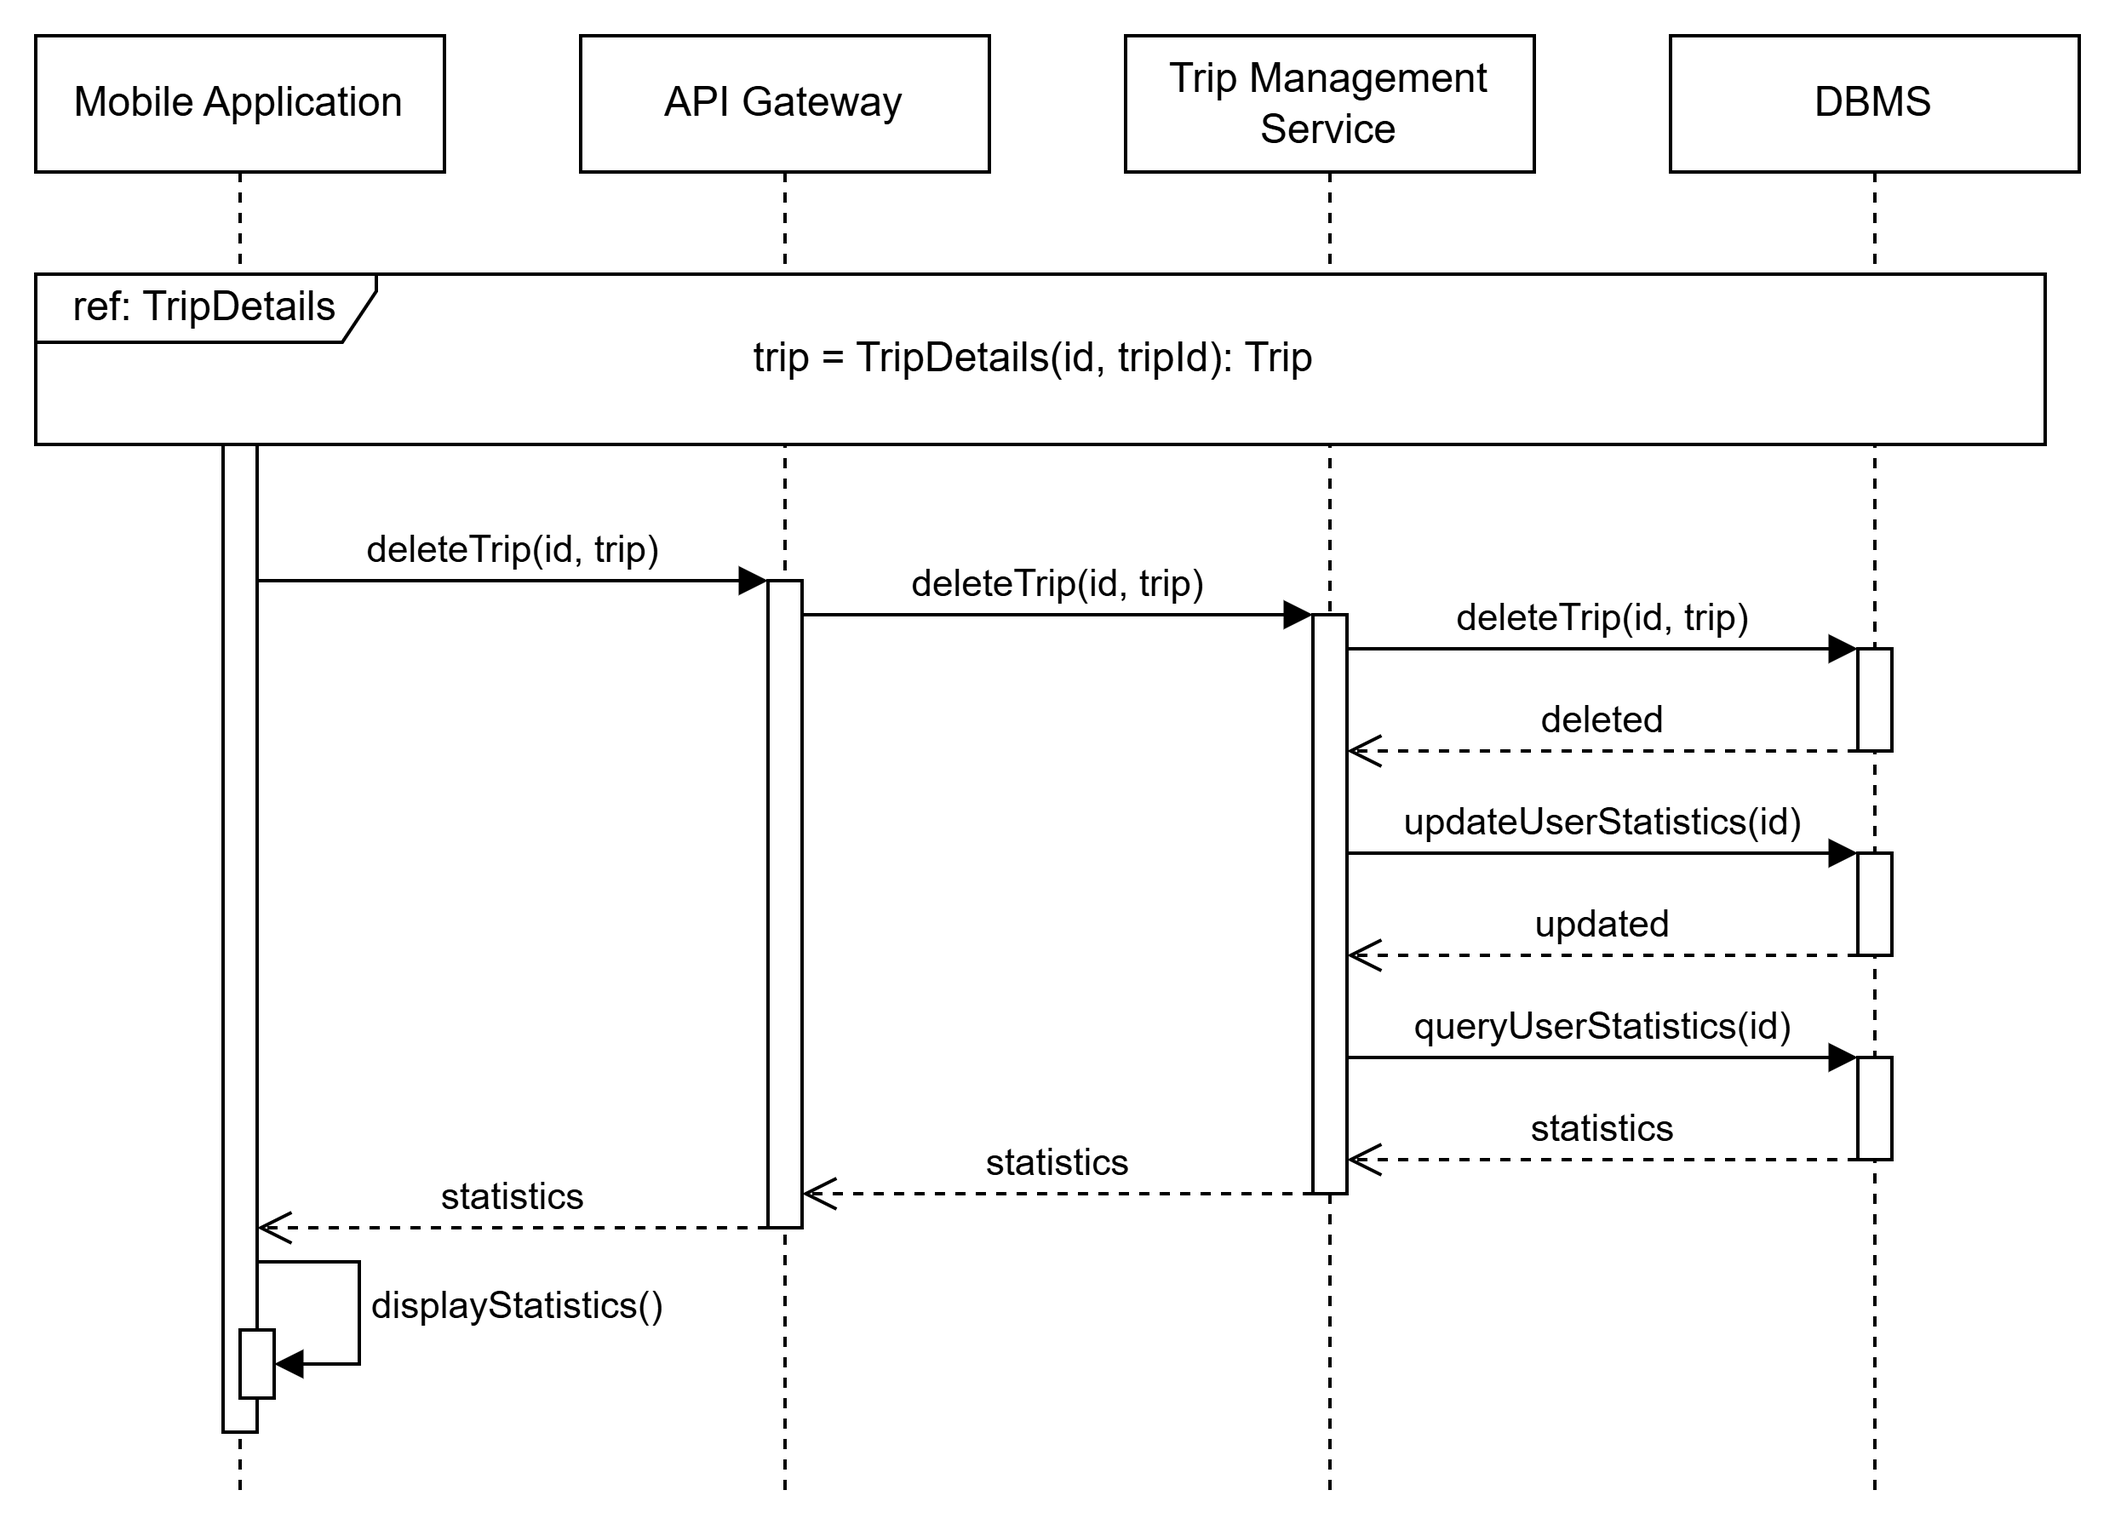
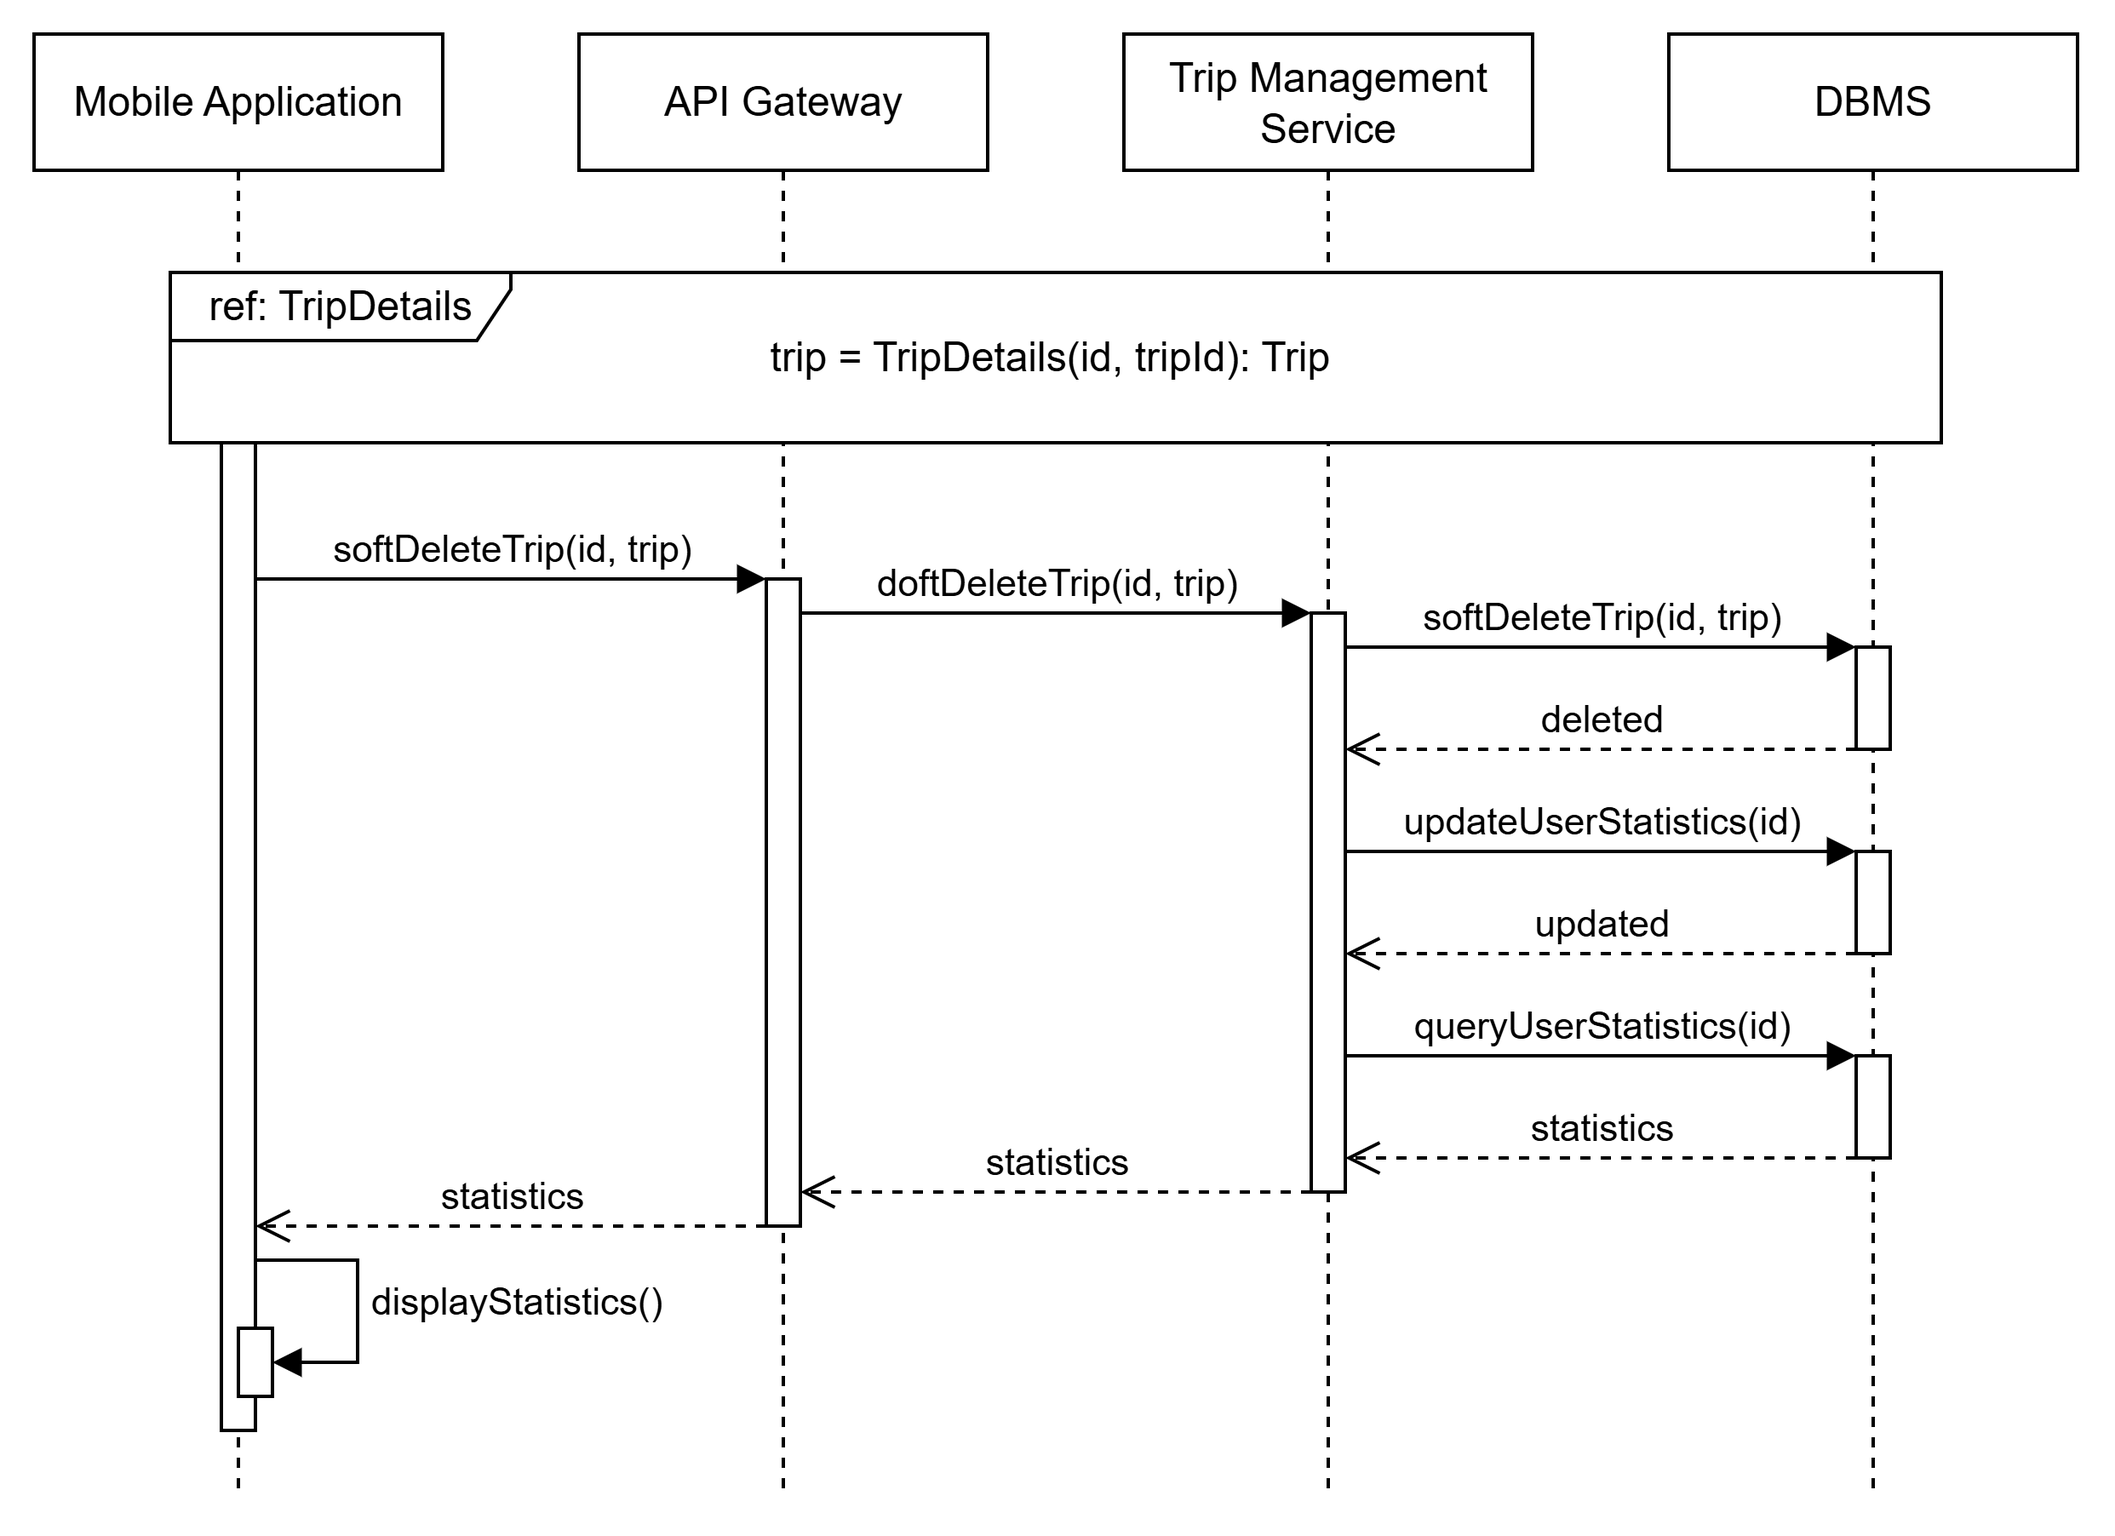
FixAdd(Section 2.4) Fix Sequence Diagram, Add Descriptions.
Fixed sequence diagrams to better model the system. Added description to each of them. 

TODO: fix browse bike paths sequence diagram, complete its description. fix automatic report generation sequence diagram

diff --git a/DD/source/sections/2_architectural_design.tex b/DD/source/sections/2_architectural_design.tex
@@ -12,7 +12,7 @@ The 3-tier client-server architecture is the fundamental backbone of the BBP sys
     \label{fig:high_level_system_view}
 \end{figure}
 
-\noindent
+\vspace{0.5cm}\noindent
 The adoption of the 3-tier client-server architecture offers several key advantages:
 \begin{itemize}
     \item Modular separation of concerns: by decoupling the presentation layer from the back-end logic, the system reduces component coupling. This facilitates parallel development streams and simplifies future maintenance.
@@ -142,10 +142,9 @@ The application server handles all the incoming requests from users interacting 
 The database runs on a clustered architecture to ensure high availability and data consistency. This configuration guarantees that all nodes maintain identical dataset and that the application server is updated with the latest information, preventing errors caused by data mismatches between nodes.
 
 \subsection{Runtime View}
-The following diagrams show the interaction between the various component that make up the BBP system. Note that the message flow modelled by these sequence diagrams do not include all the possible exceptions the system can run into for a matter of simplicity. Furthermore, as already mentioned before, every interaction between the client and the server is mediated by the API Gateway component, which also has caching mechanisms and acts as a session handler for registered users. These functionalities are not shown in the diagrams to make them more readable. 
-\newline
+The following diagrams show the interaction between the various component that make up the BBP system. Note that the message flow modelled by these sequence diagrams do not include all the possible exceptions the system can run into for a matter of simplicity. Furthermore, as already mentioned before, every interaction between the client and the server is mediated by the API Gateway component, which also has caching mechanisms and acts as a session handler for registered users. These functionalities are not shown in the diagrams to make them more readable.
 
-\noindent
+\vspace{0.5cm}\noindent
 \textbf{UC1: User Registration}
 \begin{figure}[H]
     \centering
@@ -154,6 +153,9 @@ The following diagrams show the interaction between the various component that m
     \label{fig:registration_sd}
 \end{figure}
 
+This sequence diagram shows the interactions between system components during user registration. Note that the local email and password validation is only syntactical, checking for errors in the email formatting and for well formed passwords. The password is hashed using salting and peppering, as already mentioned in the RASD, before sending the registration request to the back-end for better security. The \code{id} is generated by the DBMS, cached in the API gateway and returned to the user for session handling: all subsequent client requests also include the id, so the API gateway can authenticate the user.
+
+\newpage
 \noindent
 \textbf{UC2: User Login}
 \begin{figure}[H]
@@ -163,6 +165,9 @@ The following diagrams show the interaction between the various component that m
     \label{fig:sd_login}
 \end{figure}
 
+This sequence diagram shows the interactions between system components during user login. If the email and hashed password correspond to an entry of the database, the corresponding id is cached in the API gateway and returned to the client, so all subsequent requests can be authenticated.
+
+\vspace{0.5cm}
 \noindent
 \textbf{UC3: Update Profile Data}
 \begin{figure}[H]
@@ -172,7 +177,9 @@ The following diagrams show the interaction between the various component that m
     \label{fig:update_sd}
 \end{figure}
 
-\noindent
+This sequence diagram shows the interactions between system components during profile data updates. The client sends an update request to the server, which then responds with a success or failure message.
+
+\newpage \noindent
 \textbf{UC4: Delete Account}
 \begin{figure}[H]
     \centering
@@ -181,6 +188,9 @@ The following diagrams show the interaction between the various component that m
     \label{fig:delete_sd}
 \end{figure}
 
+This sequence diagram shows the interactions between system components during account deletion. By GDPR regulations, all sensitive information regarding the user is deleted, while all reports he compiled are persisted in the database.
+
+\newpage
 \noindent
 \textbf{UC5: Browse Bike Paths}
 \begin{figure}[H]
@@ -190,6 +200,11 @@ The following diagrams show the interaction between the various component that m
     \label{fig:browse_sd}
 \end{figure}
 
+This sequence diagram shows the interactions between system components during bike paths browsing. Once the user navigates to the dedicated section in the mobile application, a location request to the device is dispatched. When the user location is returned by the device, the application gets map and weather information from external services, in order to display them. If the user inserts departure and destination points, with attached filters, a request to the server is dispatched, which returns the list of the available bike paths, ranked by score. Otherwise, if the user explores the map, a request by area is sent to the server. In both cases, the map and weather information are updated and the list of bike paths are displayed to the user.
+
+The user can optionally visualize the details of a given path by clicking it,
+
+\newpage
 \noindent
 \textbf{UC6: Plan Trips}
 \begin{figure}[H]
@@ -198,8 +213,9 @@ The following diagrams show the interaction between the various component that m
     \caption{Plan Trips Sequence Diagram.} 
     \label{fig:plan_sd}
 \end{figure}
+This sequence diagram shows the interactions between system components during trip planning. After browsing and selecting a bike path, the user can decide to save the trip: the client sends a request to the trip management service, which saves the trip in the database via the DBMS. 
 
-\noindent
+\vspace{0.5cm}\noindent
 \textbf{UC7: Change Automatic Tracking Settings}
 \begin{figure}[H]
     \centering
@@ -208,6 +224,9 @@ The following diagrams show the interaction between the various component that m
     \label{fig:change_prefs_sd}
 \end{figure}
 
+This sequence diagram shows the interactions between system components during preferences changes. The client simply dispatches a request to switch preferences to the user management component, which saves the preferences to the database, via the DBMS.
+
+\newpage
 \noindent
 \textbf{UC8: View History and Statistics of Completed Trips}
 \begin{figure}[H]
@@ -217,6 +236,9 @@ The following diagrams show the interaction between the various component that m
     \label{fig:details_sd}
 \end{figure}
 
+This sequence diagram shows the interactions between system components when the user views the history and statistics of completed trips. The client gets from the server the global user statistics, all planned and completed trips in parallel, showing them to the user. Once the user clicks on a completed trip, all information regarding the trip is fetched and displayed.
+
+\newpage
 \noindent
 \textbf{UC9: Delete Trips from History}
 \begin{figure}[H]
@@ -226,6 +248,9 @@ The following diagrams show the interaction between the various component that m
     \label{fig:delete_trip_sd}
 \end{figure}
 
+This sequence diagram shows the interaction between system components during trip deletion. The user can decide to delete a trip after visualizing its details. The client sends a request to the trip management service, which interacts with the DBMS by requesting a soft deletion of the information, the update of user global statistics and the query of the new ones, so the user can visualize them.
+
+\newpage
 \noindent
 \textbf{UC10: Manual Report}
 \begin{figure}[H]
@@ -235,6 +260,9 @@ The following diagrams show the interaction between the various component that m
     \label{fig:manual_sd}
 \end{figure}
 
+This sequence diagram shows the interaction between system components during manual reporting. After completing his trip, the user can compile the report regarding the bike path he followed. A creation request is dispatched from the client to the report management system, which creates a new draft and inserts it into the database via the DBMS. For each street of the path, the user can add a new obstacle, which is done once again via a request to the report management service. Once the validation process is completed, the user may optionally publish the data: the client sends a request to the report management component which updates the state of the report, and publishes a new event on the bus, which triggers a synchronization process in the application layer to make the data up-to-date. 
+
+\newpage
 \noindent
 \textbf{UC11: Automatic Report}
 \begin{figure}[H]
@@ -244,7 +272,9 @@ The following diagrams show the interaction between the various component that m
     \label{fig:automatic_sd}
 \end{figure}
 
+This sequence diagram shows the interactions between system components during automatic report generation. Once the user starts his trip, the mobile application receives the sensor data, including GPS location, from the device. The client batches all the data and sends it to the tracking ingestion endpoint, which simply publishes to the bus a \code{SensE} event containing the batch. The tracking processing worker reacts to this event by cleaning the data and publishing in turn a new \code{PSensE} event to the bus. This triggers a sequence of tasks in the automatic report generator worker, which creates a new report draft, inserts it into the database, via the DBMS component, and updates it when a new \code{PSensE} event is captured from the bus. When the user reaches the destination point, or stops the recording of the trip, a termination event is published into the bus by either the trip management component or the tracking ingestion endpoint respectively. This event is consumed by the automatic report generator, which queries the draft from the DBMS and sends it to the client, so the user can validate the report. Every validation step executed by the user triggers an update to the database, until the verification is completed. At this point the user may optionally publish the data: the client sends a request to the report management component which updates the state of the report, and publishes a new event on the bus, which triggers a synchronization process in the application layer to make the data up-to-date. 
 
+\vspace{0.5cm}
 \noindent
 \textbf{UC12: Receive Trip Alerts}
 \begin{figure}[H]
@@ -253,6 +283,9 @@ The following diagrams show the interaction between the various component that m
     \caption{Receive Trip Alerts Sequence Diagram.}
     \label{fig:alerts_sd}
 \end{figure}
+
+This sequence diagram shows the interactions between system components during trip alerts. Once the user has planned a trip, the system activates a polling mechanism that every 12 hours requests weather information to the external weather provider, via the adapter. The alert component, upon receiving the weather data, computes a severity score.  Also, every time the report management service publishes a \code{ReportPublishedE} event on the bus, the alert service reacts by recomputing the severity score. When the score exceeds a given threshold, the alert service triggers a notification to the user's device. 
+
 
 \subsection{Component Interfaces}
 
@@ -277,5 +310,5 @@ As already mentioned in previous sections, the asynchronous nature of some featu
 to the adoption of an hybrid architecture with an Event-Driven layer, implemented using a publish-subscribe pattern. More specifically, asynchronous components subscribe to the event bus, listening to the stream of events and reacting to those that concern them. This design decision prevents tight coupling of components and makes asynchronous tasks effortless.
 
 \paragraph{Adapter}
-Some features of the platform rely on external services, such as map and weather solutions, to enrich the user experience. The adapter pattern becomes a necessity as data from external services have a different structure from that used by the system. Some components of the application layer, namely the Map and Weather Adapter, act as a link between the external and the internal services, providing an interface through which the platform is able to communicate. 
+Some features of the platform rely on external services, such as map and weather solutions, to enrich the user experience. The adapter pattern becomes a necessity as data from external services have a different structure from that used by the system. Some components of the application layer, namely the Map and Weather Adapter, act as a link between the external and the internal services, providing an interface through which the platform is able to communicate. It also allows timeout handling, fallback strategies, and graceful degradation in case of service unavailability. 
 

diff --git a/DD/source/sections/6_effort.tex b/DD/source/sections/6_effort.tex
@@ -1,0 +1,18 @@
+\section{Effort Spent}
+The following table displays the effort spent in hours of both group members on the sections of the document. The division is only approximative and each section still required the collaboration of both members.
+
+\begin{table}[H]
+    \centering
+    \renewcommand{\arraystretch}{1.3}
+    \begin{tabular}{|l|l|l|l|l|}
+        \hline
+        & \textbf{Section 1} & \textbf{Section 2} & \textbf{Section 3} & \textbf{Section 4} \\
+        \hline
+        Vokrri Fabio & 1 & 24 & 1 & 1 & 12\\
+        \hline 
+        Soufien Sadgal & 0 & 28 & 0 & 2 & 12\\
+        \hline
+    \end{tabular}
+    \caption{Effort spent in hours.}
+    \label{tab:effort_spent}
+\end{table}

diff --git a/DD/source/sections/4_requirement_traceability.tex b/DD/source/sections/4_requirement_traceability.tex
@@ -100,7 +100,7 @@
         \hline
     \end{tabular}
     \caption{Trip Tracking, History and Performance Analytics Mapping.}
-    \label{tab:trip_planning_mapping}
+    \label{tab:trip_tracking_mapping}
 \end{table}
 
 \begin{table}[H]
@@ -151,6 +151,6 @@
         \end{itemize} \\
         \hline
     \end{tabular}
-    \caption{Reporting, Validation and Publication of Path Information Mapping.}
-    \label{tab:reporting_mapping}
+    \caption{Context Enrichment and Notifications Mapping.}
+    \label{tab:notification_mapping}
 \end{table}
